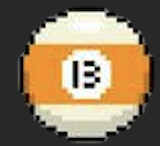
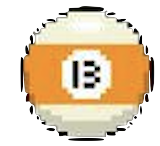
Fixed animation

diff --git a/src/Ball.java b/src/Ball.java
@@ -1,29 +1,44 @@
+import javax.swing.*;
 import java.awt.*;
 
 public class Ball {
 
     private int x, y;
-    private Color colour;
-    private double dx, dy;
+    private int dx, dy;
+    private double angle;
+    private int speed;
     private boolean hasPocketed;
     private boolean isSolid;
     private int number;
+    private Image ballDraw;
     private int size;
 
     private GameView window;
 
-    public Ball(int x, int y, int radius, Color colour) {
+    public Ball(int x, int y, int radius, int number, GameView window) {
         this.x = x;
         this.y = y;
-        this.dx = 0;
-        this.dy = 0;
+        this.dx = 20;
+        this.dy = 20;
         this.size = radius;
-        this.colour = colour;
         this.hasPocketed = false;
+        this.number = number;
+        ballDraw = new ImageIcon("Resources/" + number + "Ball.png").getImage();
+        this.window = window;
+    }
+    public Ball(int x, int y, int radius, GameView window) {
+        this.x = x;
+        this.y = y;
+        this.dx = 30;
+        this.dy = 30;
+        this.size = radius;
+        this.hasPocketed = false;
+        ballDraw = new ImageIcon("Resources/White Ball.png").getImage();
+        this.window = window;
     }
 
     // Getters and Setters
-    public double getX() {
+    public int getX() {
         return x;
     }
 
@@ -31,23 +46,23 @@ public class Ball {
         this.x = x;
     }
 
-    public double getY() {
+    public int getY() {
         return y;
+    }
+
+    public Image getImage() {
+        return ballDraw;
+    }
+
+    public void setBallDraw(Image ballDraw) {
+        this.ballDraw = ballDraw;
     }
 
     public void setY(int y) {
         this.y = y;
     }
 
-    public Color getColour() {
-        return colour;
-    }
-
-    public void setColour(Color colour) {
-        this.colour = colour;
-    }
-
-    public double getDx() {
+    public int getDx() {
         return dx;
     }
 
@@ -55,7 +70,7 @@ public class Ball {
         this.dx = dx;
     }
 
-    public double getDy() {
+    public int getDy() {
         return dy;
     }
 
@@ -71,7 +86,7 @@ public class Ball {
         this.hasPocketed = hasPocketed;
     }
 
-    public double getSize() {
+    public int getSize() {
         return size;
     }
 
@@ -79,33 +94,57 @@ public class Ball {
         this.size = size;
     }
 
+
     public void move()
     {
-        if (!hasPocketed) {
-            x += dx;
-            y += dy;
-        }
+        this.x += dx;
+        this.y += dy;
+        bounceOffWall();
+        this.addFriction();
     }
     // Makes sure speed slows every time
     public void addFriction()
     {
-        dx *= 0.98;
-        dy *= 0.98;
-        if (Math.abs(dx) < 0.1) dx = 0;
-        if (Math.abs(dy) < 0.1) dy = 0;
+        // Pythagorean triangle
+        speed = (int) Math.sqrt((dx*dx) + dy*dy);
+        speed *= 0.9;
+        if (Math.abs(speed) < 0.5)
+        {
+            speed = 0;
+            dx = 0;
+            dy = 0;
+        }
     }
 
     // Ball bounces off different things
     public void bounceOffWall()
     {
-        if (x - size < 0 || x + size > window.WINDOW_WIDTH)
+        if (x - size < window.TABLE_LEFT || x + size > window.TABLE_RIGHT)
         {
+            // Reflects
+            if(x - size < window.TABLE_LEFT)
+            {
+                x = size+window.TABLE_LEFT;
+            }
+            else
+            {
+                x = window.TABLE_RIGHT;
+            }
             dx *= -1;
         }
-        if (y - size < 0 || y + size > window.WINDOW_HEIGHT)
+        if (y - size < window.TABLE_TOP || y + size > window.TABLE_BOTTOM)
         {
+            if(y - size < window.TABLE_TOP)
+            {
+                y = size+window.TABLE_TOP;
+            }
+            else
+            {
+                y = window.TABLE_BOTTOM;
+            }
             dy *= -1;
         }
+        angle = Math.atan2( dx, dy);
     }
     public void bounceOffBall(Ball collided)
     {
@@ -114,7 +153,6 @@ public class Ball {
     // Draw
     public void draw(Graphics g)
     {
-        g.setColor(colour);
-        g.fillOval(x - size, y - size, 2 * size, 2 * size);
+        g.drawImage(ballDraw, x - size, y - size, 2 * size, 2 * size, window);
     }
 }

diff --git a/src/GameView.java b/src/GameView.java
@@ -1,12 +1,18 @@
 import javax.swing.*;
 import java.awt.*;
+import java.awt.image.BufferStrategy;
 
 public class GameView extends JFrame {
 
 
-    public final int WINDOW_WIDTH = 1000;
-    public final int WINDOW_HEIGHT = 800;
-    private final int TITLE_BAR_HEIGHT = 23;
+    public final int WINDOW_WIDTH = 896;
+    public final int WINDOW_HEIGHT = 560;
+    public final int TITLE_BAR_HEIGHT = 25;
+    public final int TABLE_LEFT = 60;
+    public final int TABLE_RIGHT = 820;
+    public final int TABLE_TOP = 90;
+    public final int TABLE_BOTTOM = 470;
+
     private Game pool;
     private Image table;
     private Cue stick;
@@ -14,22 +20,40 @@ public class GameView extends JFrame {
     public GameView(Game game) {
         this.pool = game;
 
-
+        table = new ImageIcon("Resources/Pool table.png").getImage();
         this.setDefaultCloseOperation(EXIT_ON_CLOSE);
         this.setTitle("The Table");
         this.setSize(WINDOW_WIDTH, WINDOW_HEIGHT);
         this.setVisible(true);
+        createBufferStrategy(2);
     }
 
     // To draw - even animation
     public void paint(Graphics g)
     {
-
+        BufferStrategy bf = this.getBufferStrategy();
+        if (bf == null)
+            return;
+        Graphics g2 = null;
+        try {
+            g2 = bf.getDrawGraphics();
+            myPaint(g2);
+        }
+        finally {
+            g2.dispose();
+        }
+        bf.show();
+        Toolkit.getDefaultToolkit().sync();
     }
 
     // Redrawing the balls
     public void myPaint(Graphics g)
     {
-
+        g.drawImage(table, 0,TITLE_BAR_HEIGHT, WINDOW_WIDTH, WINDOW_HEIGHT, this);
+        pool.getWhite().draw(g);
+        for (Ball b: pool.getBalls())
+        {
+            b.draw(g);
+        }
     }
 }

diff --git a/src/Game.java b/src/Game.java
@@ -13,18 +13,20 @@ public class Game implements MouseListener, MouseMotionListener, ActionListener 
     private ArrayList<pocket> holes;
     private int state;
     private Timer clock;
-
-
     private GameView window;
 
     public Game() {
-        this.holes = new ArrayList<pocket>();
-        this.white = new Ball(10,10,5, Color.WHITE);
-        this.balls = new ArrayList<Ball>();
-        this.state = 0;
-        clock = new Timer(20, this);
-        clock.start();
+
         window = new GameView(this);
+        this.holes = new ArrayList<pocket>();
+        this.white = new Ball(300,200,10, window);
+        this.balls = new ArrayList<Ball>();
+        // for (int i = 1; i < 16; i++) {
+        //   balls.add(new Ball(10,10,5, i, window));
+        // }
+        this.state = 0;
+        clock = new Timer(70, this);
+        clock.start();
     }
 
     // Getters and Setters
@@ -52,6 +54,14 @@ public class Game implements MouseListener, MouseMotionListener, ActionListener 
         this.holes = holes;
     }
 
+    public Ball getWhite() {
+        return white;
+    }
+
+    public void setWhite(Ball white) {
+        this.white = white;
+    }
+
     // Plays the actual game - allows people to hit balls
     public void playGame()
     {
@@ -67,6 +77,7 @@ public class Game implements MouseListener, MouseMotionListener, ActionListener 
     // All implemented methods
     @Override
     public void actionPerformed(ActionEvent e) {
+        white.move();
         window.repaint();
     }
 

diff --git a/src/Main.java b/src/Main.java
@@ -2,6 +2,6 @@
 
 public class Main {
     public static void main(String[] args) {
-        new Game();
+        Game a = new Game();
     }
 }
